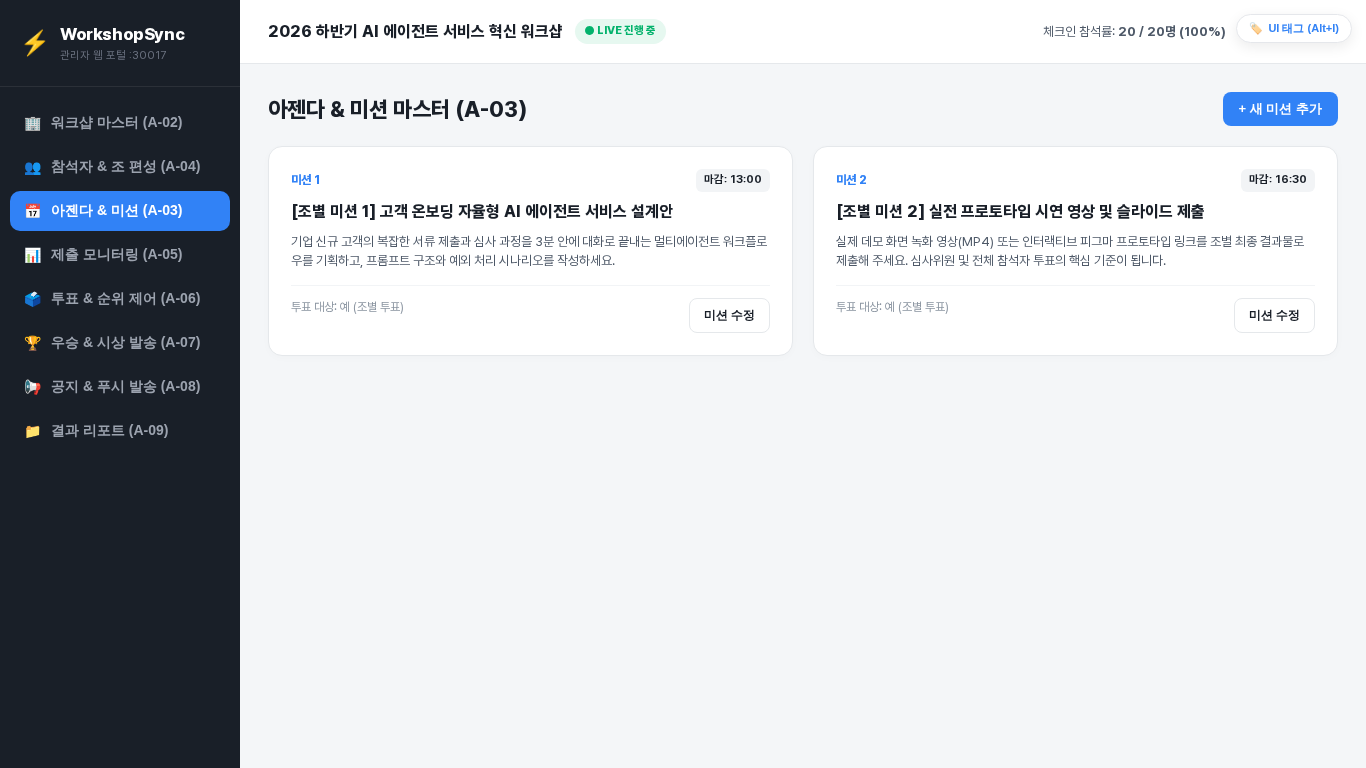
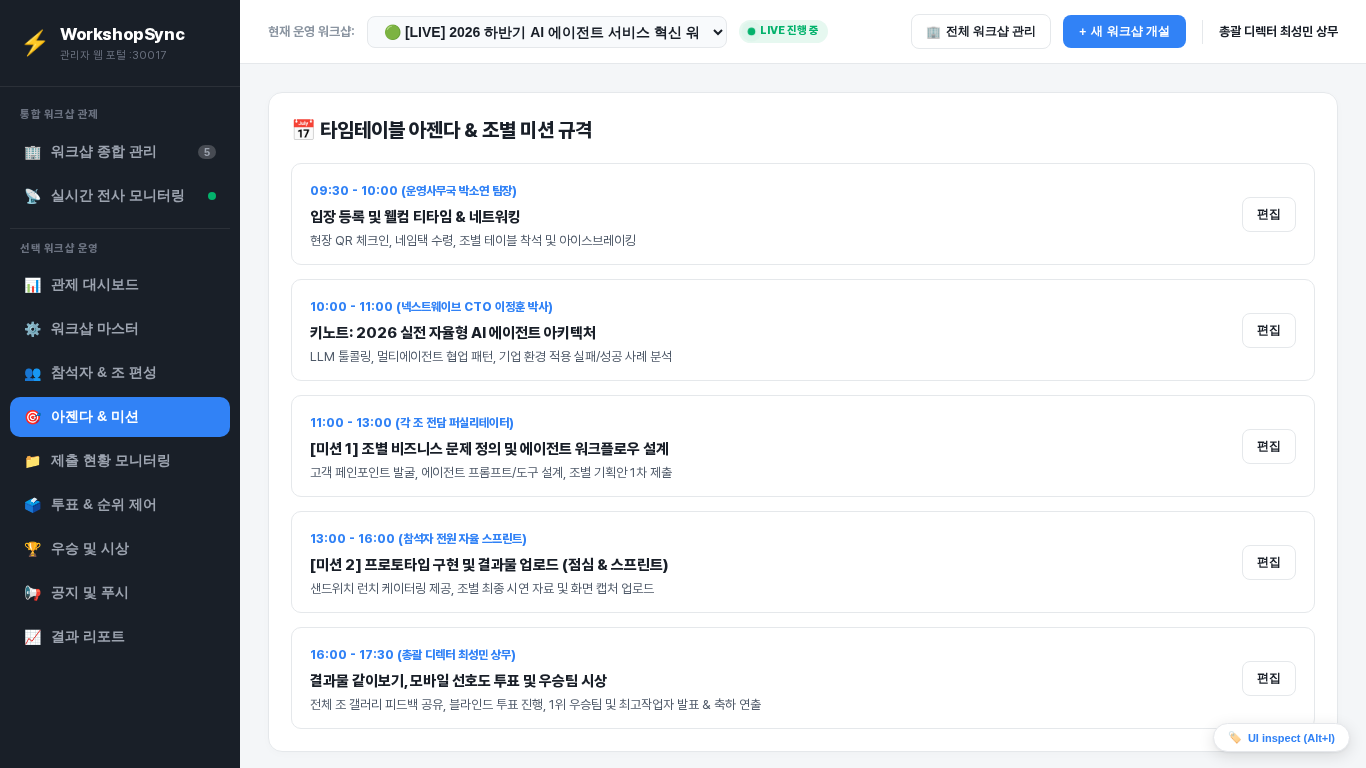
feat(ui-inspect): UI inspect 용어 통일, 뱃지 사이즈 축소 및 관리자 좌측 메뉴 위치 일치화
- 용어 통일: 'UI 태그', 'UI 인스펙션'을 'UI inspect'로 통일 (FAB 버튼, 단축키 툴팁, 토스트 알림, 하네스 룰 문서)
- 뱃지 사이즈 1단계 축소: 폰트 11px -> 9.5px, 패딩 4px 7px -> 2.5px 5.5px, 모서리 6px -> 4px
- 관리자 좌측 메뉴 위치 일치: .sidebar-item .ui-serial-badge 우측 정렬 오버라이드 제거 및 좌상단 핀 고정으로 타 요소 뱃지와 정렬 일치화
- 스크린샷 갱신 및 검증 완료: mobile_inspect_badge.png, admin_inspect_badge.png

diff --git a/packages/shared/src/inspector.ts b/packages/shared/src/inspector.ts
@@ -1,5 +1,5 @@
-// UI Tagging & Inspection System for WorkshopSync
-// 의뢰자 소통용 UI 일련번호 태깅 & 4대 정보 원클릭 복사 엔진
+// UI inspect System for WorkshopSync
+// 의뢰자 소통용 UI inspect 일련번호 태깅 & 4대 정보 원클릭 복사 엔진
 
 export function initUiInspector() {
   if (typeof window === 'undefined') return;
@@ -12,18 +12,18 @@ export function initUiInspector() {
       .ui-serial-badge {
         display: none;
         position: absolute;
-        top: -10px;
-        left: -4px;
+        top: -8px;
+        left: -2px;
         z-index: 99999;
         background: linear-gradient(135deg, #3182F6 0%, #6366F1 100%);
         color: #ffffff;
         font-family: ui-monospace, SFMono-Regular, Menlo, Monaco, Consolas, monospace;
-        font-size: 11px;
+        font-size: 9.5px;
         font-weight: 700;
         line-height: 1;
-        padding: 4px 7px;
-        border-radius: 6px;
-        box-shadow: 0 4px 12px rgba(49, 130, 246, 0.45), 0 0 0 1px rgba(255, 255, 255, 0.2);
+        padding: 2.5px 5.5px;
+        border-radius: 4px;
+        box-shadow: 0 2px 8px rgba(49, 130, 246, 0.4), 0 0 0 1px rgba(255, 255, 255, 0.2);
         cursor: pointer;
         pointer-events: auto;
         user-select: none;
@@ -109,7 +109,7 @@ export function initUiInspector() {
     document.body.classList.toggle('ui-inspect-active', isInspectMode);
     const fabText = document.getElementById('ui-inspector-fab-text');
     if (fabText) {
-      fabText.innerText = isInspectMode ? '태그 ON (Alt+I)' : 'UI 태그 (Alt+I)';
+      fabText.innerText = isInspectMode ? 'UI inspect ON (Alt+I)' : 'UI inspect (Alt+I)';
     }
   }
 
@@ -119,7 +119,7 @@ export function initUiInspector() {
       e.preventDefault();
       isInspectMode = !isInspectMode;
       updateState();
-      showToast(isInspectMode ? '🔍 UI 일련번호 뱃지 활성화 (클릭 시 4대 정보 복사)' : 'UI 일련번호 뱃지 숨김');
+      showToast(isInspectMode ? '🔍 UI inspect 활성화 (클릭 시 4대 정보 복사)' : 'UI inspect 비활성화 (숨김)');
     }
   });
 
@@ -128,14 +128,14 @@ export function initUiInspector() {
     const fab = document.createElement('button');
     fab.id = 'ui-inspector-fab';
     fab.setAttribute('type', 'button');
-    fab.setAttribute('title', '단축키 Alt+I 로도 켜고 끌 수 있습니다');
-    fab.innerHTML = `<span>🏷</span><span id="ui-inspector-fab-text">${isInspectMode ? '태그 ON (Alt+I)' : 'UI 태그 (Alt+I)'}</span>`;
+    fab.setAttribute('title', '단축키 Alt+I 로 UI inspect 모드를 켜고 끌 수 있습니다');
+    fab.innerHTML = `<span>🏷</span><span id="ui-inspector-fab-text">${isInspectMode ? 'UI inspect ON (Alt+I)' : 'UI inspect (Alt+I)'}</span>`;
     fab.addEventListener('click', (e) => {
       e.preventDefault();
       e.stopPropagation();
       isInspectMode = !isInspectMode;
       updateState();
-      showToast(isInspectMode ? '🔍 UI 일련번호 뱃지 활성화 (클릭 시 4대 정보 복사)' : 'UI 일련번호 뱃지 숨김');
+      showToast(isInspectMode ? '🔍 UI inspect 활성화 (클릭 시 4대 정보 복사)' : 'UI inspect 비활성화 (숨김)');
     });
     document.body.appendChild(fab);
   }

diff --git a/apps/admin/src/index.css b/apps/admin/src/index.css
@@ -88,17 +88,16 @@ body {
   transition: all 0.15s;
 }
 
-/* Sidebar Item UI Tag Badge - 우측 끝에 안정적으로 부착 */
+/* Sidebar Item UI Tag Badge - 다른 뱃지 위치와 일치 (좌상단 핀 고정) */
 .sidebar-item .ui-serial-badge {
-  top: 50% !important;
-  right: 10px !important;
-  left: auto !important;
-  transform: translateY(-50%) !important;
-  box-shadow: 0 2px 8px rgba(0, 0, 0, 0.3) !important;
+  top: -6px !important;
+  left: 8px !important;
+  right: auto !important;
+  transform: none !important;
 }
 
 .sidebar-item .ui-serial-badge:hover {
-  transform: translateY(-50%) scale(1.08) !important;
+  transform: scale(1.12) !important;
 }
 
 .sidebar-item:hover {

diff --git a/apps/admin/src/main.tsx b/apps/admin/src/main.tsx
@@ -4,7 +4,7 @@ import App from './App';
 import './index.css';
 import { initUiInspector } from '@workshopsync/shared';
 
-// 의뢰자 소통용 UI 일련번호 태깅 & Alt+I 인스펙션 뱃지 시스템 초기화
+// 의뢰자 소통용 UI inspect 뱃지 시스템 초기화 (Alt+I)
 initUiInspector();
 
 ReactDOM.createRoot(document.getElementById('root')!).render(

diff --git a/apps/mobile/src/main.tsx b/apps/mobile/src/main.tsx
@@ -4,7 +4,7 @@ import App from './App';
 import './index.css';
 import { initUiInspector } from '@workshopsync/shared';
 
-// 의뢰자 소통용 UI 일련번호 태깅 & Alt+I 인스펙션 뱃지 시스템 초기화
+// 의뢰자 소통용 UI inspect 뱃지 시스템 초기화 (Alt+I)
 initUiInspector();
 
 ReactDOM.createRoot(document.getElementById('root')!).render(

diff --git a/GEMINI.md b/GEMINI.md
@@ -14,7 +14,7 @@
 | **"하네스 구성해줘"**, **"하네스 설계"**, **"에이전트 팀 만들어줘"** | [.agents/skills/harness/SKILL.md](file:///apps/ex_project_WorkshopSync/.agents/skills/harness/SKILL.md) | 프로젝트 도메인 분석 후 최적의 에이전트 팀과 스킬 설계 |
 | **"하네스 회고"**, **"하네스 피드백 반영"**, **"하네스 진화"** | [.agents/skills/harness-evolve/SKILL.md](file:///apps/ex_project_WorkshopSync/.agents/skills/harness-evolve/SKILL.md) | 실행 델타 포착, 원리 일반화, 룰 및 에이전트 지속 개선 |
 | **"루프 실행"**, **"ralph loop"**, **"끝날 때까지 반복"**, **"자율 루프"** | [.agents/skills/ralph-loop/SKILL.md](file:///apps/ex_project_WorkshopSync/.agents/skills/ralph-loop/SKILL.md) | Ralph Loop 자율 반복 실행, 완료 약속 및 서킷 브레이커 관리 |
-| **UI 일련번호 태깅 & 단축키 인스펙션** | [.agents/rules/ui-tagging-inspection.md](file:///apps/ex_project_WorkshopSync/.agents/rules/ui-tagging-inspection.md) | 화면/태그 일련번호 체계, `Alt+I` 단축키 토글, 뱃지 클릭 시 4대 정보 복사 |
+| **UI 일련번호 태깅 & UI inspect 뱃지** | [.agents/rules/ui-tagging-inspection.md](file:///apps/ex_project_WorkshopSync/.agents/rules/ui-tagging-inspection.md) | 화면/태그 일련번호 체계, `Alt+I` 단축키 토글, 뱃지 클릭 시 4대 정보 복사 |
 | **워크샵 도메인 용어 & 10대 골든 룰** | [.agents/rules/workshop-terminology.md](file:///apps/ex_project_WorkshopSync/.agents/rules/workshop-terminology.md) | 워크샵 도메인 전문 용어, 자기 조 투표 금지, 블라인드 득표, 마감 엄격 차단 등 10대 수칙 |
 | **WorkshopSync 도메인 & PRD 규격** | [.agents/rules/workshop-domain.md](file:///apps/ex_project_WorkshopSync/.agents/rules/workshop-domain.md) | MongoDB 12대 스키마, 13대 화면(S-01~13), 관리자 9대 기능(A-01~09), 포트 30015+ 스펙 |
 | **Git 커밋 규약 & 업무 종료 수칙** | [.agents/rules/git-workflow.md](file:///apps/ex_project_WorkshopSync/.agents/rules/git-workflow.md) | 업무 종료 시 Git Commit 필수화, 원자적 커밋, 메시지 컨벤션 |
@@ -72,3 +72,4 @@
 | **2026-10-15** | WorkshopSync 도메인 가이드 및 10대 비즈니스 골든 룰 탑재 | `workshop-domain.md`, `workshop-terminology.md`, `plugin.json` | MongoDB 12대 스키마, 13대 화면(S-01~13), 관리자 9대 기능(A-01~09), 자기 조 투표 불가 등 10대 골든 룰 탑재 |
 | **2026-10-15** | 의뢰자 소통용 UI 일련번호 태깅 체계 WorkshopSync 규격화 | `ui-tagging-inspection.md`, `GEMINI.md`, `AGENTS.md` | S01~S13 모바일 화면 및 A01~A09 관리자 화면 식별자 체계 수립, `Alt+I` 단축키 및 4대 정보 원클릭 복사 유지 |
 | **2026-10-15** | 통합 포트 매니저 스크립트 30015+ 개편 | `run_port.sh`, `compile.sh`, `start_server.sh` 등 | 30015(API), 30016(Mobile), 30017(Admin) 개별/일괄 기동, 컴파일, 중지, 상태 점검 기능 지원 |
+| **2026-10-16** | UI inspect 태그 뱃지 고도화 및 규격 통일 | `inspector.ts`, `admin/src/index.css`, `ui-tagging-inspection.md` | 용어 'UI inspect' 통일, 뱃지 사이즈 1단계 축소(9.5px), 관리자 좌측 메뉴 뱃지 위치 좌상단 일치화 |

diff --git a/.agents/rules/ui-tagging-inspection.md b/.agents/rules/ui-tagging-inspection.md
@@ -1,5 +1,5 @@
-# 의뢰자 소통용 UI 일련번호 태깅 & 인스펙션 뱃지 시스템 규격
-## (Client-Agent UI Tagging & Inspection System for WorkshopSync)
+# 의뢰자 소통용 UI 일련번호 태깅 & UI inspect 뱃지 시스템 규격
+## (Client-Agent UI Tagging & UI Inspect System for WorkshopSync)
 
 - **적용 대상**: `apps/mobile/` (참석자 전용 앱, Port 30016), `apps/admin/` (관리자 웹 포털, Port 30017)
 - **적용 목적**: 의뢰자(기획사/운영자/클라이언트)와 AI 에이전트/개발자 간의 피드백 소통 시, 모호한 묘사 대신 **화면(Page)과 UI 요소(Tag/Element)의 고유 일련번호**를 기반으로 100% 오차 없는 정밀한 커뮤니케이션을 실현함.
@@ -27,20 +27,21 @@
 
 ---
 
-## 2. 단축키 인스펙션 뱃지 기능 규격
+## 2. 단축키 UI inspect 뱃지 기능 규격
 
-모든 프론트엔드 빌드 시 아래 인스펙션 오버레이 메커니즘을 내장합니다.
+모든 프론트엔드 빌드 시 아래 UI inspect 오버레이 메커니즘을 내장합니다.
 
-### 2-1. 단축키 토글 (Toggle Shortcut)
-- **전역 단축키**: **`Alt + I`** (Inspection의 I) 또는 **`Ctrl + Shift + T`**
+### 2-1. 단축키 및 FAB 토글 (Toggle Shortcut & FAB)
+- **전역 단축키**: **`Alt + I`** (Inspect의 I) 또는 **`Ctrl + Shift + T`**
+- **플로팅 버튼(FAB)**: 화면 우측 하단 `UI inspect (Alt+I)` / `UI inspect ON (Alt+I)` 토글 버튼 제공.
 - **동작**:
   - 기본 상태: 비활성화 (운영/학습자 뷰에 방해되지 않도록 숨김).
-  - 단축키 입력 시: 화면의 모든 태그에 부여된 시각적 뱃지가 부드러운 페이드인 애니메이션과 함께 즉시 표시됨. 재입력 시 숨김.
+  - 단축키 또는 FAB 클릭 시: 화면의 모든 태그에 부여된 시각적 뱃지가 부드러운 페이드인 애니메이션과 함께 즉시 표시됨. 재입력 시 숨김.
 
 ### 2-2. 뱃지 시각 스타일 (Badge Styling)
-- **위치**: 해당 태그 요소의 좌상단(Top-Left)에 떠 있는 플로팅 핀 형태.
-- **디자인**: 토스 블루 / 딥 바이올렛 배경, 흰색 텍스트, 11px 폰트, 둥근 모서리(border-radius: 4px).
-- **마우스 호버**: 스케일 1.1배 확대 및 `"클릭 시 4대 정보 복사"` 툴팁 노출.
+- **위치**: 관리자 좌측 메뉴를 포함한 모든 태그 요소의 **좌상단(Top-Left)**에 떠 있는 플로팅 핀 형태 일치(`top: -8px`, `left: -2px` 또는 메뉴 `top: -6px`, `left: 8px`).
+- **디자인**: 토스 블루 / 딥 바이올렛 그라데이션 배경, 흰색 텍스트, **콤팩트 9.5px 모노스페이스 폰트**, `padding: 2.5px 5.5px`, 둥근 모서리(`border-radius: 4px`).
+- **마우스 호버**: 스케일 1.12배 확대 및 `"클릭 시 4대 정보 복사"` 피드백.
 
 ### 2-3. 원클릭 클립보드 복사 (Click to Copy)
 - **동작**:
